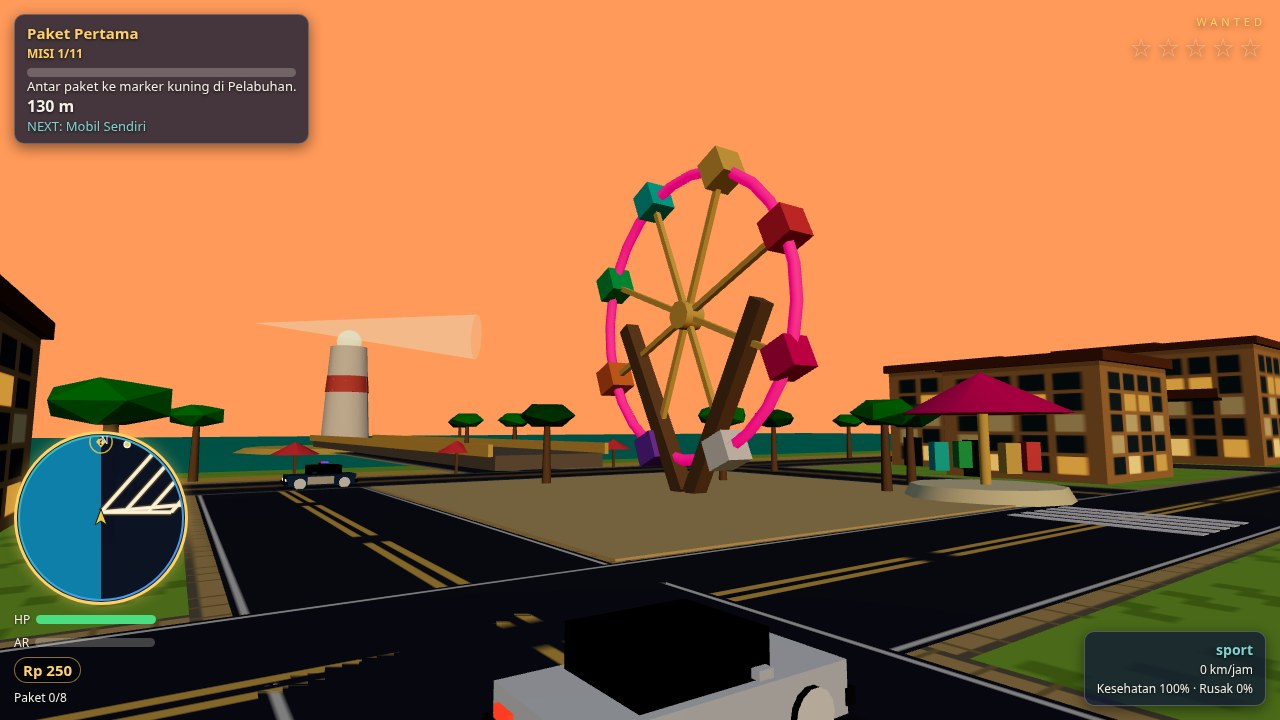
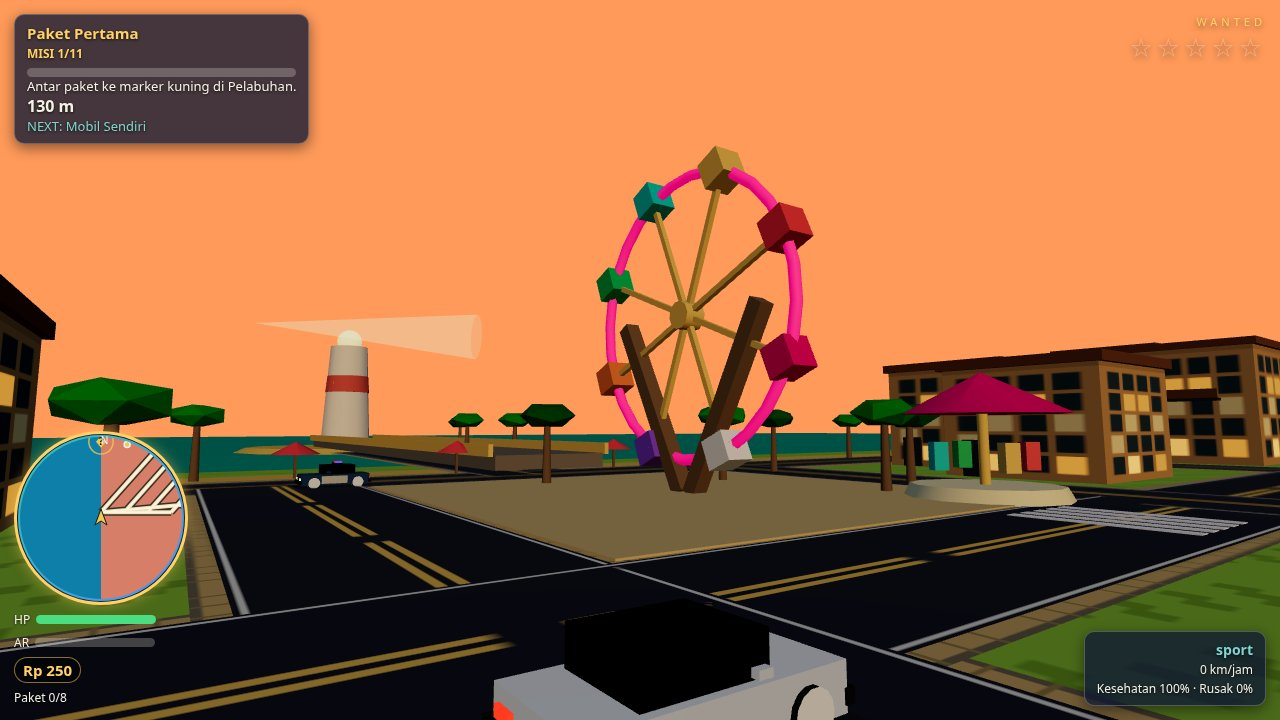
M30: blok pink minimap ala GTA V (4 kuadran districtAt + retune)

diff --git a/game/src/city.js b/game/src/city.js
@@ -290,7 +290,6 @@ for(const [x,z,a] of [[108,-100,1],[28,-20,1],[108,100,1],[-92,-100,1],[-180,112
         roof.scale.set(w + 0.8, 0.8, dep + 0.8);
         roof.position.set(x, h + 0.4, z);
         group.add(roof);
-        // M15: varian dari koordinat blok (tanpa rng).
         const v = (Math.abs(bx) + Math.abs(bz) * 3 + i) % 3;
         B(K(boxGeo, balMat), 2, 3, 0.3, x - w * 0.28, 1.5, z + dep / 2 + 0.1);
         if (v === 0 && h > 10) { B(K(boxGeo, balMat), w * 0.5, 0.3, 1.4, x, h * 0.55, z + dep / 2 + 0.6); B(K(boxGeo, d.roofMat), w * 0.5, 1, 0.12, x, h * 0.55 + 0.65, z + dep / 2 + 1.25); }

diff --git a/game/src/hud.js b/game/src/hud.js
@@ -153,8 +153,11 @@ export function createHud() {
     mm.arc(cx, cy, r, 0, Math.PI * 2);
     mm.clip();
 
-    mm.fillStyle = 'rgba(10, 16, 32, 0.85)';
-    mm.fillRect(0, 0, w, h);
+    const X0 = toX(0), Y0 = toY(0);
+    mm.fillStyle = '#e89a80'; mm.fillRect(0, 0, X0, Y0);
+    mm.fillStyle = '#f5c2ac'; mm.fillRect(X0, 0, w - X0, Y0);
+    mm.fillStyle = '#d67e68'; mm.fillRect(0, Y0, X0, h - Y0);
+    mm.fillStyle = '#e59a7e'; mm.fillRect(X0, Y0, w - X0, h - Y0);
     mm.font = 'bold 11px system-ui, sans-serif';
     mm.textAlign = 'center';
     mm.textBaseline = 'middle';

diff --git a/game/src/missions.js b/game/src/missions.js
@@ -62,7 +62,6 @@ export function createMissions(ctx) {
   const neon = pickNode(['neon']);
   const hill = pickNode(['residential']);
 
-  // [judul, deskripsi, indeks reward, distrik, target]
   const DEFS = [
     ['Paket Pertama', 'Antar paket dari pelabuhan dengan mobil pinjaman. Berkendara ke marker kuning.', 0, 'Pelabuhan', port],
     ['Mobil Sendiri', 'Curi mobil dari jalan, lalu bawa ke marker di Boulevard. Mobil terkunci butuh saksi yang tidak melihat.', 1, 'Boulevard', boulevard],

diff --git a/game/src/vehicles.js b/game/src/vehicles.js
@@ -153,7 +153,6 @@ export function buildCarMesh(type) {
 }
 
 function syncMesh(car) {
-  // M27: mobil dikemudi offset kiri 2.5 m (sticky); traffic tidak.
   if (car.driver) car._lane = 1;
   const o = car._lane && !car._t ? 2.5 : 0;
   car.mesh.position.set(car.pos.x + Math.cos(car.heading) * o, 0, car.pos.z - Math.sin(car.heading) * o);

diff --git a/game/src/traffic.js b/game/src/traffic.js
@@ -6,7 +6,6 @@ const LANE = 2.5; // offset lajur kanan dari as jalan (CP17)
 const CAR_GAP = 4.4; // jarak pusat minimum antar mobil (CP17)
 let sepFrame = 0;
 
-// Dorong-pisah (CP17+M29a): parkir diam.
 function separateCars(cars) {
   sepFrame++;
   for (let i = 0; i < cars.length; i++) {

diff --git a/game/src/police-pursuit.js b/game/src/police-pursuit.js
@@ -14,7 +14,6 @@ export function nodePos(graph, id) {
   return null;
 }
 
-// Garis pandang: 3 titik sampel a->b vs collider gedung.
 export function hasLineOfSight(a, b, colliders) {
   if (!colliders || !colliders.length) return true;
   for (const s of [0.25, 0.5, 0.75]) {
